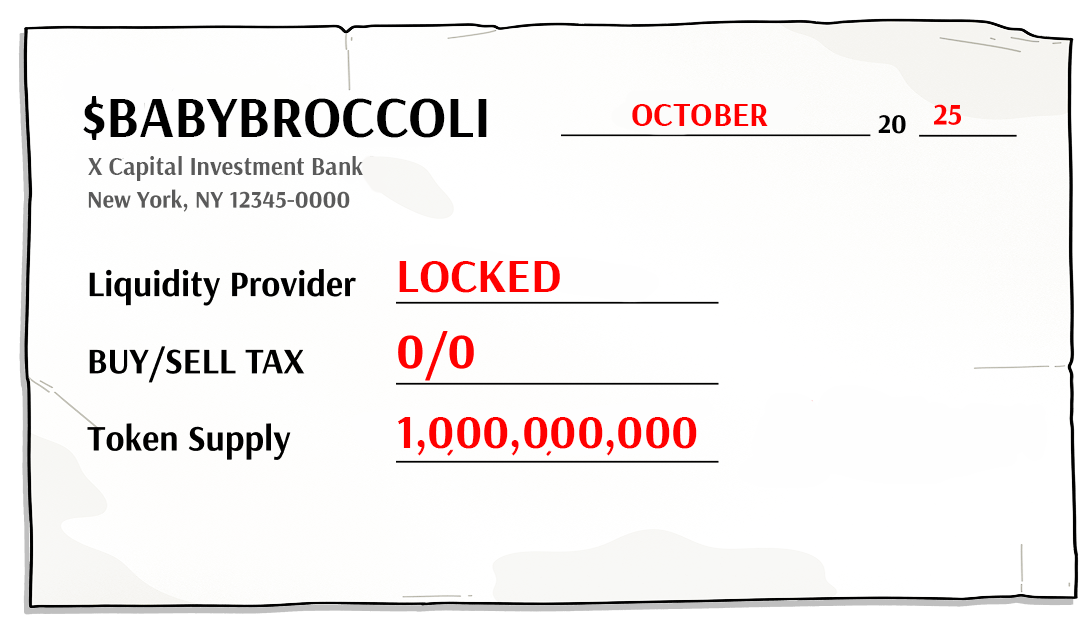
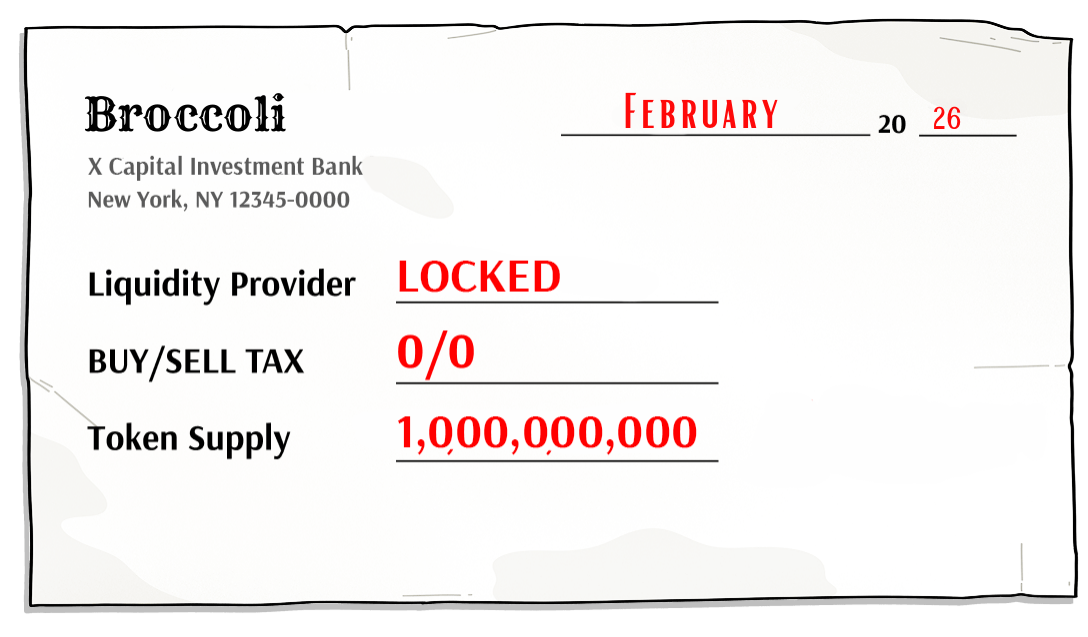
update

diff --git a/index.html b/index.html
@@ -1,7 +1,7 @@
 <!DOCTYPE html>
 <html lang="en">
   <head>
-    <title>Baby Broccoli</title>
+    <title>Broccoli</title>
     <meta charset="UTF-8" />
     <meta name="format-detection" content="telephone=no" />
     <style>
@@ -338,7 +338,7 @@
               </div>
               <div class="about__bottom">
                 <div class="about__bottom-text">
-                  Join Baby Broccoli if this sounds like you!
+                  Join Broccoli if this sounds like you!
                 </div>
                 <a
                   href="https://dexscreener.com/bsc/0xcomingsoon"
@@ -385,7 +385,7 @@
                   </h3>
                   <p>
                     Go to pancakeswap.finance in google chrome or on the browser inside your Metamask app. Connect
-                      your wallet. Paste the $BABYBROCCOLI token address into Uniswap, select Baby Broccoli, and confirm. When Metamask
+                      your wallet. Paste the $BABYBROCCOLI token address into Uniswap, select Broccoli, and confirm. When Metamask
                       prompts you for a wallet signature, sign.
                   </p>
                 </div>
@@ -663,7 +663,7 @@
         <div class="footer__bottom">
           <div class="footer__container">
             <div class="footer__bottom-body">
-              <span>2025 © ALL RIGHTS RESERVED</span>
+              <span>2026 © ALL RIGHTS RESERVED</span>
               <!-- <a href="https://t.me/osnovoco" target="_blank">
           <span>Designed by</span>
           <img src="img/osnovo.svg" alt="Osnovo" />
